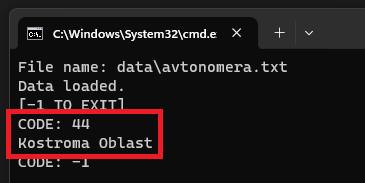
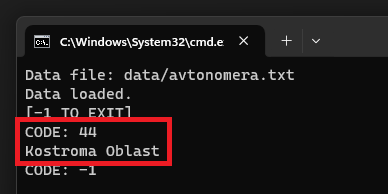
update cout and demo

diff --git a/src/Avtonomera.cpp b/src/Avtonomera.cpp
@@ -19,7 +19,7 @@ struct Plates {
 };
 
 void openFile(ifstream& fin, string& filename) {
-    cout << "File name: ";
+    cout << "Data file: ";
     cin >> filename;
     fin.open(filename.c_str());
 
